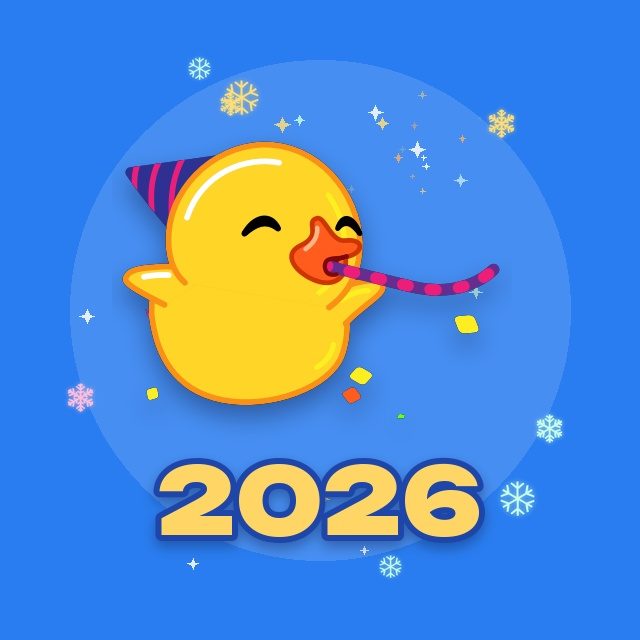
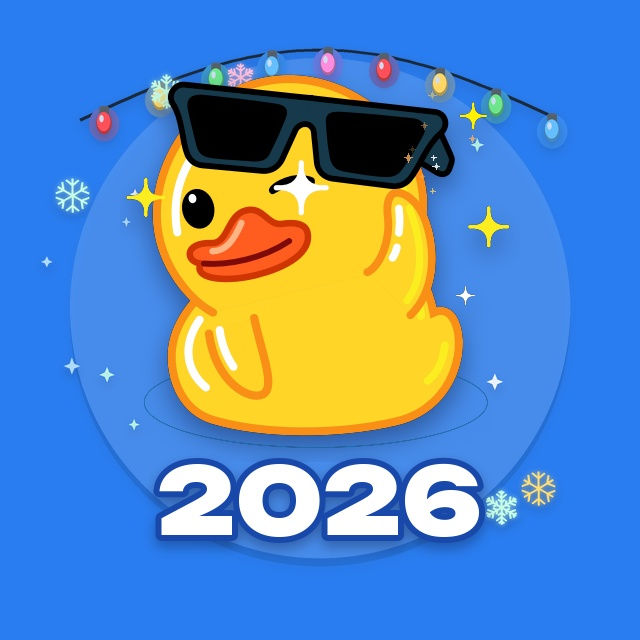
Аватарка бота: синяя уточка в очках с белым годом
- варианты аватарок в cards.AVATARS, по умолчанию «cool» (синий)
- preview/bot_avatar_640.jpg обновлена

diff --git a/cards.py b/cards.py
@@ -803,38 +803,76 @@ def about_picture(out: Path) -> Path:
     return out
 
 
-def avatar(out: Path) -> Path:
-    """Аватарка бота 640×640. Telegram режет в круг — всё важное в центре."""
+#: Варианты аватарки бота. Telegram режет картинку в круг — всё важное в центре.
+AVATARS = {
+    # Классика: синий Telegram, праздничная уточка, золотой год.
+    "party": {"bg": (42, 125, 240), "duck": "039", "deco": "snow", "year": GOLD, "stroke": (30, 70, 170)},
+    # Уточка в очках на фиолетовом, гирлянда дугой сверху.
+    "cool": {"bg": (42, 125, 240), "duck": "010", "deco": "garland", "year": (255, 255, 255), "stroke": (24, 72, 170)},
+    # Тот же «в очках», но золотой год — на выбор.
+    "cool_gold": {"bg": (42, 125, 240), "duck": "010", "deco": "garland", "year": GOLD, "stroke": (24, 72, 170)},
+    # Ночной: тёмно-синий, уточка с сердечками, звёзды.
+    "night": {"bg": (36, 46, 120), "duck": "024", "deco": "stars", "year": GOLD, "stroke": (20, 25, 80)},
+    # Розовый с шариками: уточка-богач с подарками.
+    "gifts": {"bg": (226, 70, 140), "duck": "018", "deco": "baubles", "year": (255, 255, 255), "stroke": (160, 30, 90)},
+}
+
+
+def avatar(out: Path, variant: str = "cool") -> Path:
+    """Аватарка бота 640×640 в выбранном варианте."""
+    v = AVATARS[variant]
     S = 640
-    rnd = random.Random("avatar-1")
-    img = Image.new("RGBA", (S, S), (42, 125, 240, 255))
-    ov = Image.new("RGBA", (S, S), (0, 0, 0, 0))
-    d = ImageDraw.Draw(ov)
-    # Мягкий круг-сцена и снежинки по краю круга.
-    d.ellipse((70, 60, 570, 560), fill=(255, 255, 255, 34))
-    for _ in range(9):
+    rnd = random.Random(f"avatar-{variant}")
+    img = Image.new("RGBA", (S, S), v["bg"] + (255,))
+    K = _Big.K
+    big = Image.new("RGBA", (S * K, S * K), (0, 0, 0, 0))
+    bd = _Big(big)
+    # Сцена под уточкой: ровный светлый круг с тенью-ободком.
+    bd.ellipse((70, 66, 570, 566), fill=(0, 0, 0, 26))
+    bd.ellipse((70, 58, 570, 558), fill=(255, 255, 255, 36))
+    if v["deco"] == "garland":
+        k = 0
+        pts = [(80 + 480 * t / 60, 120 - 70 * math.sin(math.pi * t / 60)) for t in range(61)]
+        bd.line(pts, fill=(25, 35, 45, 230), width=3)
+        for t in range(3, 60, 7):
+            bx, by = pts[t]
+            c = BULB_COLORS[k % len(BULB_COLORS)]
+            k += 1
+            bd.ellipse((bx - 15, by - 2, bx + 15, by + 32), fill=c + (70,))
+            bd.rounded_rectangle((bx - 4.5, by - 3, bx + 4.5, by + 6), 2, fill=(85, 95, 105, 255))
+            bd.ellipse((bx - 7.5, by + 3, bx + 7.5, by + 25), fill=tuple(int(x * 0.7) for x in c) + (255,))
+            bd.ellipse((bx - 7, by + 3, bx + 6, by + 22), fill=c + (255,))
+            bd.ellipse((bx - 4.5, by + 6, bx - 0.5, by + 13), fill=(255, 255, 255, 200))
+    if v["deco"] == "baubles":
+        for x, y, r, c in ((150, 150, 26, BULB_COLORS[1]), (500, 170, 22, BULB_COLORS[3]), (440, 110, 16, BULB_COLORS[2])):
+            bd.line((x, 0, x, y - r), fill=(255, 255, 255, 200), width=2)
+            bd.rounded_rectangle((x - 6.5, y - r - 8, x + 6.5, y - r + 3), 2.5, fill=(214, 160, 50, 255))
+            _sphere(bd, x, y, r, c)
+    n_stars = 22 if v["deco"] == "stars" else 12
+    for _ in range(n_stars):
         ang = rnd.uniform(0, math.tau)
-        rad = rnd.uniform(230, 280)
+        rad = rnd.uniform(160, 285)
+        _star(bd, S / 2 + math.cos(ang) * rad, S / 2 + math.sin(ang) * rad, rnd.uniform(4, 9), 230, rnd.choice(FLAKE_COLORS))
+    layer = big.resize((S, S), Image.LANCZOS)
+    for _ in range(9 if v["deco"] in ("snow", "stars") else 5):
+        ang = rnd.uniform(0, math.tau)
+        rad = rnd.uniform(230, 285)
         x, y = S / 2 + math.cos(ang) * rad, S / 2 + math.sin(ang) * rad
         sp = _tinted(_flake_sprite(rnd.choice((22, 28, 34)), rnd.randrange(3)), rnd.choice(FLAKE_COLORS))
-        ov.alpha_composite(sp, (int(x - sp.width / 2), int(y - sp.height / 2)))
-    for _ in range(12):
-        ang = rnd.uniform(0, math.tau)
-        rad = rnd.uniform(150, 280)
-        _star(d, S / 2 + math.cos(ang) * rad, S / 2 + math.sin(ang) * rad, rnd.uniform(4, 8), 220, rnd.choice(FLAKE_COLORS))
-    img.alpha_composite(ov)
-    duck = _icon("039", 400)
-    img.alpha_composite(_shadow(duck, dy=12, blur=12, strength=0.4), (112, 70))
-    img.alpha_composite(duck, (112, 70))
-    # Год золотом снизу, с тенью.
+        layer.alpha_composite(sp, (int(x - sp.width / 2), int(y - sp.height / 2)))
+    img.alpha_composite(_shadow(layer, dy=5, blur=5, strength=0.3))
+    img.alpha_composite(layer)
+    duck = _icon(v["duck"], 400)
+    img.alpha_composite(_shadow(duck, dy=12, blur=12, strength=0.4), (120, 62))
+    img.alpha_composite(duck, (120, 62))
     t = Image.new("RGBA", (S, S), (0, 0, 0, 0))
     td = ImageDraw.Draw(t)
     f = _font("Unbounded-Black.ttf", 92)
-    td.text((S / 2, 500), str(config.YEAR), font=f, fill=GOLD, anchor="mm", stroke_width=6, stroke_fill=(30, 70, 170))
+    td.text((S / 2, 500), str(config.YEAR), font=f, fill=v["year"], anchor="mm", stroke_width=6, stroke_fill=v["stroke"])
     img.alpha_composite(_shadow(t, dy=6, blur=6, strength=0.35))
     img.alpha_composite(t)
     sl = Image.new("RGBA", (S, S), (0, 0, 0, 0))
-    _Sparkler(430, 150, count=40, spread=90, seed=5).draw(ImageDraw.Draw(sl), FRAMES // 3)
+    _Sparkler(440, 150, count=40, spread=90, seed=5).draw(ImageDraw.Draw(sl), FRAMES // 3)
     img.alpha_composite(sl)
     img.convert("RGB").save(out, quality=95)
     return out
